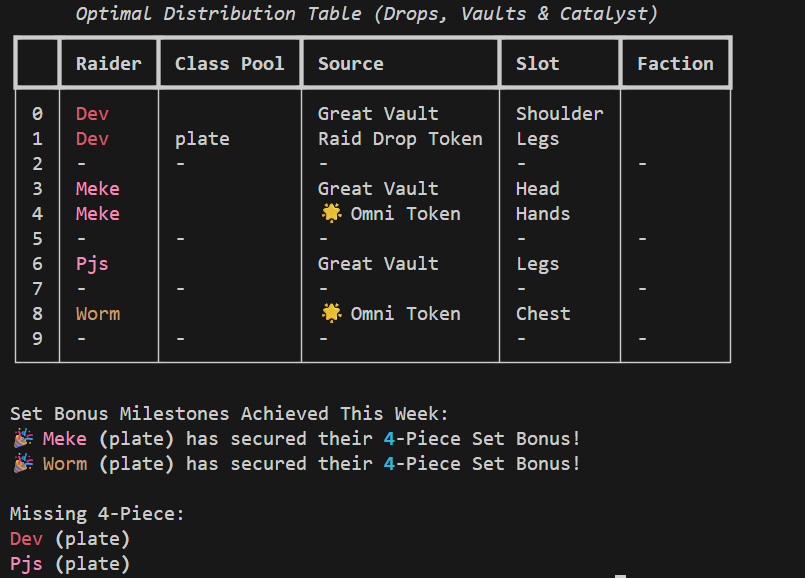
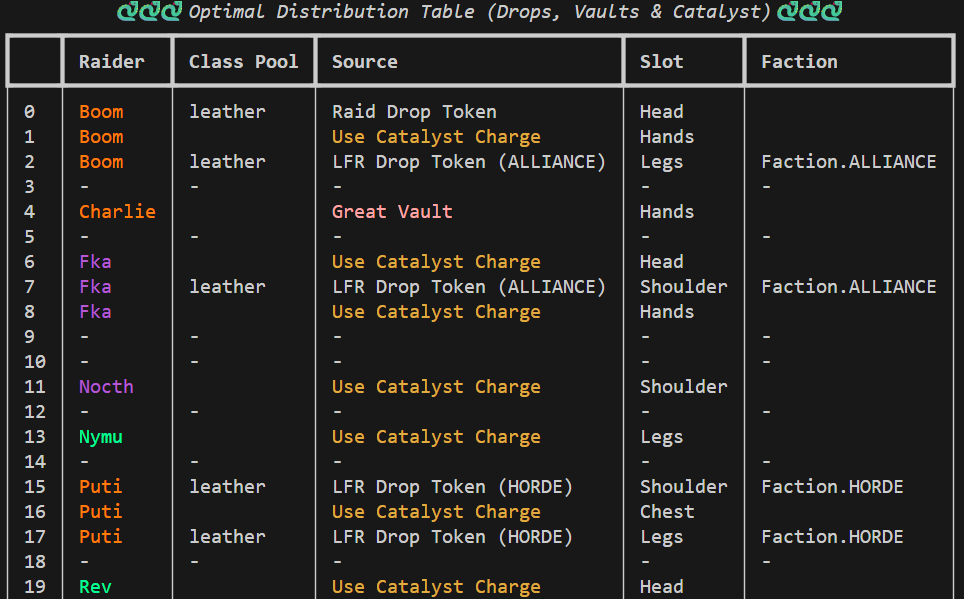
Refactoring and documentation (#2)
* Branch to handle cleanup.

* updated the documentation, corrected links

* Updated documentation with new graphs.

diff --git a/main.py b/main.py
@@ -14,54 +14,7 @@ tier_slots = ['Head', 'Shoulder', 'Chest', 'Hands', 'Legs']
 token_groups = ['cloth', 'leather', 'mail', 'plate']
 factions = [Faction.ALLIANCE, Faction.HORDE]
 
-# Pulp DataDicts
-current_tier = {} # Current Tier Pieces
-vault_options = {} # Vault Tier Options
-catalyst_charges = {} # Number of Catalyst Charges
-player_weights = {} # Player Weights - The higher these values are set in the raider dictionary, the higher value completing their tier set is given
-raider_factions = {} 
-
-####################
-#
-#   Ingest Raider Information from Input Folder
-#
-####################
-
-with open("./input/roster_information.json") as roster_file:
-    roster_data = json.load(roster_file)
-
-vault_df = pd.read_csv("./input/vault_input.csv")
- 
-#Fix Enums & Update Vault
-for armor_type in roster_data:
-    for raider in roster_data[armor_type]:
-        roster_data[armor_type][raider]['class'] = Class[roster_data[armor_type][raider]['class']]
-        roster_data[armor_type][raider]['type'] = Type[roster_data[armor_type][raider]['type']]
-        roster_data[armor_type][raider]['faction'] = Faction[roster_data[armor_type][raider]['faction']]
-        roster_data[armor_type][raider]['current_tier'] = vault_df.loc[vault_df['Name'] == raider]["Current Tier Slots"].values
-        roster_data[armor_type][raider]['vault_options'] = vault_df.loc[vault_df['Name'] == raider]["Vault Option (Tier)"].values
-
-# Raider Information 
-# Split by armor type.
-leather_raiders = roster_data["leather_raiders"]
-cloth_raiders = roster_data["cloth_raiders"]
-mail_raiders = roster_data["mail_raiders"]
-plate_raiders = roster_data["plate_raiders"]
-
-####################
-#
-#   Generate total_tier_drops_by type from CSV file. 
-#   Output format comes from a modified Addon: LootHoard - my modified version can be found here X:
-#
-####################
-
-with open('./config/config.yaml', 'r') as file:
-    config_info = yaml.safe_load(file)
-
-total_omni_drops_this_week = config_info['total_omni_drops_this_week']
-
-
-
+# Other Variables
 total_tokens_output = []
 total_tier_drops_by_type = {
     "cloth" : {
@@ -95,12 +48,59 @@ total_tier_drops_by_type = {
 
 }
 
-# Name - Slot - Difficulty
+# Pulp DataDicts
+current_tier = {} # Current Tier Pieces
+vault_options = {} # Vault Tier Options
+catalyst_charges = {} # Number of Catalyst Charges
+player_weights = {} # Player Weights - The higher these values are set in the raider dictionary, the higher value completing their tier set is given
+raider_factions = {} 
 
+#####################
+# --- Ingest Data ---
+#####################
+rprint("Ingesting Data")
+
+with open("./input/roster_information.json") as roster_file:
+    roster_data = json.load(roster_file)
+
+with open('./config/config.yaml', 'r') as file:
+    config_info = yaml.safe_load(file)
+
+
+
+vault_df = pd.read_csv("./input/vault_input.csv")
+
+
+#####################
+# --- Data Setup  ---
+#####################
+total_omni_drops_this_week = config_info['total_omni_drops_this_week']
+lfr_drops_by_faction = {
+    Faction.ALLIANCE : config_info["Faction.ALLIANCE"],
+    Faction.HORDE : config_info["Faction.HORDE"]
+}
+ 
+#Fix Enums & Update Vault
+for armor_type in roster_data:
+    for raider in roster_data[armor_type]:
+        roster_data[armor_type][raider]['class'] = Class[roster_data[armor_type][raider]['class']]
+        roster_data[armor_type][raider]['type'] = Type[roster_data[armor_type][raider]['type']]
+        roster_data[armor_type][raider]['faction'] = Faction[roster_data[armor_type][raider]['faction']]
+        roster_data[armor_type][raider]['current_tier'] = vault_df.loc[vault_df['Name'] == raider]["Current Tier Slots"].values
+        roster_data[armor_type][raider]['vault_options'] = vault_df.loc[vault_df['Name'] == raider]["Vault Option (Tier)"].values
+
+# Raider Information 
+# Split by armor type.
+leather_raiders = roster_data["leather_raiders"]
+cloth_raiders = roster_data["cloth_raiders"]
+mail_raiders = roster_data["mail_raiders"]
+plate_raiders = roster_data["plate_raiders"]
+
+# Parse Raid Loot - Ugly way to match all this up. Currently Token LUA does not allow me to pull slot type for a token without cross-referencing IDs. 
 with open('./input/raid_loot.csv', 'r') as file:
     #Date,Raid,Difficulty,Boss,Player,Item
-    file_reader = csv.reader(file)
-    for line in file_reader:
+    raid_loot = csv.reader(file)
+    for line in raid_loot:
         for type in config_info["token_name"]:
             if line[5] in config_info["token_name"][type].keys():
                 slot = config_info["token_name"][type][line[5]]
@@ -112,13 +112,6 @@ with open('./input/raid_loot.csv', 'r') as file:
                     'ilvl': f"[#0070dd]{line[2]}[/#0070dd]" if line[2] == "Heroic" else f"[#1eff00]{line[2]}[/#1eff00]",
                 })
 
-
-lfr_drops_by_faction = {
-    Faction.ALLIANCE : config_info["Faction.ALLIANCE"],
-    Faction.HORDE : config_info["Faction.HORDE"]
-}
-
-## Do Not Touch Below
 
 ############################
 # --- Input Data Setup   ---
@@ -287,9 +280,11 @@ prob += pulp.lpSum(
 
 # Solve
 prob.solve(PULP_CBC_CMD(msg=False))
-
+rprint(f"Status: {pulp.LpStatus[prob.status]}")
+########################
 # --- Output Results ---
-print(f"Status: {pulp.LpStatus[prob.status]}")
+########################
+rprint("Generating Output.")
 raid_drop_token = []
 allocation_data = []
 for raider in raiders:
@@ -318,30 +313,44 @@ for raider in raiders:
             allocation_data.append({
                 'Raider': f"[#{raiders_dict[raider]["class"].value[0]}]{raider}[/#{raiders_dict[raider]["class"].value[0]}]",  
                 'Class Pool': '', 
-                'Source': 'Great Vault', 
+                'Source': '[#FFA5A5]Great Vault[/#FFA5A5]', 
                 'Slot': slot, 
                 'Faction': ''})
         if catalyst_dv[raider][slot].varValue == 1:
             allocation_data.append({
                 'Raider': f"[#{raiders_dict[raider]["class"].value[0]}]{raider}[/#{raiders_dict[raider]["class"].value[0]}]", 
                 'Class Pool': '', 
-                'Source': '⚡ Use Catalyst Charge', 
+                'Source': '[#E0AC3F]Use Catalyst Charge[/#E0AC3F]', 
                 'Slot': slot, 
                 'Faction': ''})
         if omni_dv[raider][slot].varValue == 1:
             allocation_data.append({
                 'Raider': f"[#{raiders_dict[raider]["class"].value[0]}]{raider}[/#{raiders_dict[raider]["class"].value[0]}]", 
                 'Class Pool': '', 
-                'Source': '🌟 Omni Token', 
+                'Source': '[#3F72E0]Omni Token[/#3F72E0]', 
                 'Slot': slot, 
                 'Faction': ''})  
     allocation_data.append({'Raider':"-", 'Class Pool':"-", 'Source': "-", 'Slot':"-", 'Faction': "-"})
 results_df = pd.DataFrame(allocation_data)
+total_tokens_df = pd.DataFrame(total_tokens_output)
+who_is_get_df = pd.DataFrame(raid_drop_token)
+###
 
-table = Table(title='Optimal Distribution Table (Drops, Vaults & Catalyst)')
-df_to_table(results_df, rich_table=table)
+#snakes for snake tier
+distribution_table = Table(title='🐍🐍🐍 Optimal Distribution Table (Drops, Vaults & Catalyst)🐍🐍🐍')
+df_to_table(results_df, rich_table=distribution_table)
 console=Console()
-console.print(table)
+console.print(distribution_table)
+
+total_tokens_table = Table(title=f"Total Tier Tokens (Total: {total_tokens_df.shape[0]})", show_lines=True)
+total_tokens_df.sort_values('Armor Type', inplace=True)
+df_to_table(total_tokens_df, rich_table=total_tokens_table)
+console.print(total_tokens_table)
+
+who_is_get_table = Table(title=f"Who is Getting Tokens?")
+df_to_table(who_is_get_df, rich_table=who_is_get_table)
+console.print(who_is_get_table)
+
 
 print("\nSet Bonus Milestones Achieved This Week:")
 for raider in raiders:
@@ -352,15 +361,3 @@ print("\nMissing 4-Piece:")
 for raider in raiders:
     if has_4pc[raider].varValue == 0:
         rprint(f"[#{raiders_dict[raider]["class"].value[0]}]{raider}[/#{raiders_dict[raider]["class"].value[0]}] ({raider_groups[raider]})")
-
-new_df = pd.DataFrame(total_tokens_output)
-new_table = Table(title=f"Total Tier Tokens (Total: {new_df.shape[0]})", show_lines=True)
-new_df.sort_values('Armor Type', inplace=True)
-df_to_table(new_df, rich_table=new_table)
-console.print(new_table)
-
-
-new_df2 = pd.DataFrame(raid_drop_token)
-new_table2 = Table(title=f"Who is Getting Tokens?")
-df_to_table(new_df2, rich_table=new_table2)
-console.print(new_table2)

diff --git a/readme.md b/readme.md
@@ -28,7 +28,7 @@ Since this tool was built specifically for my guild you will need to copy that w
 The character names in the `roster_information.json` file must match the names in Googlesheets. Otherwise this will throw an error.
 
 ##### External Datasources:
-- LootHoarder (My Fork): LootHoarder records all the Epic loot that drops in raid. This is used to generate the number of tokens for each armor type and slot. We export the CSV from this addon to be parsed.
+- [LootHoarder (My Fork)](https://github.com/Davis24/LootHoard): LootHoarder records all the Epic loot that drops in raid. This is used to generate the number of tokens for each armor type and slot. We export the CSV from this addon to be parsed.
 - GoogleSheets: Currently, there isn't a clean way (without everyone installing an addon) to track tier tokens in the vault. We rely on our raiders to input their information into a GoogleSheets a copy can be found [here](https://docs.google.com/spreadsheets/d/1f_0C3Zbrlt-i4pplJL0wYrj9coTwe6NrvfMDRLLRz5s/edit?usp=sharing).
     - Most of these tabs are unused but we're sticking with this format for now.
 
@@ -36,7 +36,7 @@ The character names in the `roster_information.json` file must match the names i
 
 With the collected data we need to update the following files before running the script. 
 
-1. `/input/roster_information.json`: Update this information regarding your raiders. See the [Roster Information Section]() for detailed information about each attribute.
+1. `/input/roster_information.json`: Update this information regarding your raiders. See the [Roster Information Section](#roster_information-JSON-Attributes) for detailed information about each attribute.
 2. `/input/vault_input.csv` : This file comes from our GoogleSheets template. With the GoogleSheets document open go to File &rarr; Download &rarr; CSV. Rename the file to `vault_input.csv` or copy and paste the contents.
 3. `/input/raid_loot.csv`: This is the data we export from the LootHoarder fork addon. Open the addon &rarr; Export &rarr; Copy and Paste. Replace all the data in the `raid_loot.csv` file.
 
@@ -48,9 +48,17 @@ python main.py
 
 ### Output
 
-The full output includes two tables showing the total tier dropped in raid, the distribution of tier (including the optimal choices - Omni, Catalyst, Great Vault, and Drops), everyone who obtained their tier set, and those still missing their tier set.
+The full output includes three tables: 
+- The distribution of tier (including the optimal choices - Omni, Catalyst, Great Vault, and Drops)
+- Total tier token drops
+- Who is Getting Tier
+
+Lastly, it includes text output on who obtained 4-piece and who did not.
 
 ![plot](./docs/output1.png)
+![plot](./docs/output2.png)
+![plot](./docs/output3.png)
+![plot](./docs/output4.png)
 
 ## Background Information
 
@@ -79,11 +87,11 @@ For our particular application we are applying LP through the PULP Python Librar
 
 **Objective Function**: We apply the lpSum for all the decision variables weighted against the player_weights and apply a lower threshold for catalyst to minimize it's usage, this is because we want to consume tokens before catalysts.
 
-## LootHoarder
+## LootHoard
 
-I've modified this addon to include difficulty. While this is currently not being used in the optimization problem I wanted to add it in case it's ever needed. But also to be able to print out the full token breakdown.
+I've modified this [addon](https://github.com/Davis24/LootHoard) to include difficulty and clean-up some of the CSV breaking issues. My version: [LootHoard](https://github.com/Davis24/LootHoard)
 
-## roster_information.json Attributes
+## roster_information JSON Attributes
 
 Lets take a look at the `roster_information.json` file and what each attribute is used for. 
 
